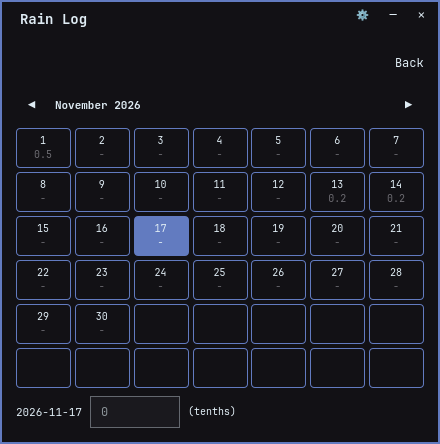
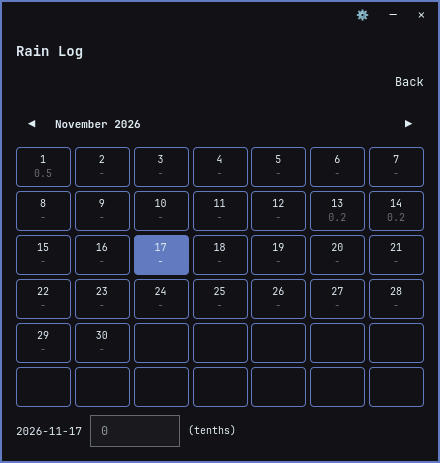
Move the title into the gap above the view action

diff --git a/shared/ui/RainLogContent.qml b/shared/ui/RainLogContent.qml
@@ -33,7 +33,7 @@ Item {
   // Height the card wants for the view currently showing. The desktop host
   // uses this only for its initial window size, so a resized window stays
   // resized.
-  readonly property int naturalHeight: headerRow.implicitHeight + Theme.space(12)
+  readonly property int naturalHeight: headerBlock.implicitHeight + Theme.space(12)
     + contentColumn.implicitHeight + bottomPad + contentPadding * 2 + 4
 
   focus: true
@@ -167,35 +167,54 @@ Item {
       anchors.left: parent.left
       anchors.right: parent.right
       anchors.top: parent.top
-      height: headerRow.height
+      height: headerBlock.height
       onPressed: root.moveRequested()
     }
 
-    RowLayout {
-      id: headerRow
+    Column {
+      id: headerBlock
       width: parent.width
-      spacing: Theme.space(8)
+      height: implicitHeight
+      spacing: Theme.space(6)
 
-      Item { Layout.fillWidth: true }
-
-      Button {
-        text: "Edit History"
-        visible: !root.historyMode && !root.settingsMode
-        // Sit the label flush with the content edge.
-        horizontalPadding: 0
-        Layout.alignment: Qt.AlignVCenter
-        onClicked: {
-          root.settingsMode = false
-          root.historyMode = true
-        }
+      // The card's title sits under the host's window controls, in the space
+      // above the view action on the right.
+      Text {
+        textFormat: Text.PlainText
+        text: "Rain Log"
+        color: Theme.foreground
+        font.family: Theme.font.family
+        font.pixelSize: Theme.font.title
+        font.bold: true
+        width: parent.width
       }
 
-      Button {
-        text: "Back"
-        visible: root.historyMode
-        horizontalPadding: 0
-        Layout.alignment: Qt.AlignVCenter
-        onClicked: root.historyMode = false
+      RowLayout {
+        id: headerRow
+        width: parent.width
+        spacing: Theme.space(8)
+
+        Item { Layout.fillWidth: true }
+
+        Button {
+          text: "Edit History"
+          visible: !root.historyMode && !root.settingsMode
+          // Sit the label flush with the content edge.
+          horizontalPadding: 0
+          Layout.alignment: Qt.AlignVCenter
+          onClicked: {
+            root.settingsMode = false
+            root.historyMode = true
+          }
+        }
+
+        Button {
+          text: "Back"
+          visible: root.historyMode
+          horizontalPadding: 0
+          Layout.alignment: Qt.AlignVCenter
+          onClicked: root.historyMode = false
+        }
       }
     }
 
@@ -203,7 +222,7 @@ Item {
       id: flick
       anchors.left: parent.left
       anchors.right: parent.right
-      anchors.top: headerRow.bottom
+      anchors.top: headerBlock.bottom
       anchors.topMargin: Theme.space(12)
       anchors.bottom: parent.bottom
       contentWidth: width

diff --git a/qml/Main.qml b/qml/Main.qml
@@ -2,9 +2,9 @@ import QtQuick
 import RainLog
 
 // Desktop host: a small frameless window whose body is the same card the
-// Omarchy plugin shows. The only host-specific chrome is a slim title strip
-// with the minimize/close pair above the card header, so the app keeps working
-// on GNOME, KDE, Cinnamon, and Windows, where a plugin cannot.
+// Omarchy plugin shows. The only host-specific chrome is a slim strip with
+// the settings and minimize/close controls above the card header, so the app
+// keeps working on GNOME, KDE, Cinnamon, and Windows, where a plugin cannot.
 Window {
   id: window
 
@@ -107,8 +107,9 @@ Window {
     border.width: 2
     border.color: Theme.popupsBorder
 
-    // A standard title strip: app name on the left, settings and window
-    // controls on the right. The empty part drags the window.
+    // Window controls sit above the card header, the way a regular title bar
+    // does. The empty part of the strip drags the window; the app name is in
+    // the card header below.
     Item {
       id: titleBar
       anchors.top: parent.top
@@ -117,35 +118,18 @@ Window {
       anchors.topMargin: 2
       anchors.leftMargin: 2
       anchors.rightMargin: 2
-      height: Math.max(32, titleControls.implicitHeight + Theme.space(10))
+      height: Math.max(26, titleControls.implicitHeight + Theme.space(4))
 
       MouseArea {
         anchors.fill: parent
         onPressed: window.startSystemMove()
       }
 
-      // The title sits a little lower than the window controls, with a little
-      // air above and to the left, so it reads as a title rather than a label
-      // pinned to the corner.
-      Text {
-        textFormat: Text.PlainText
-        text: "Rain Log"
-        color: Theme.foreground
-        font.family: Theme.font.family
-        font.pixelSize: Theme.font.title
-        font.bold: true
-        anchors.left: parent.left
-        anchors.leftMargin: Theme.space(18)
-        anchors.top: parent.top
-        anchors.topMargin: Theme.space(8)
-      }
-
       Row {
         id: titleControls
-        anchors.top: parent.top
-        anchors.topMargin: Theme.space(2)
         anchors.right: parent.right
         anchors.rightMargin: Theme.space(4)
+        anchors.verticalCenter: parent.verticalCenter
         spacing: Theme.space(2)
 
         Button {

diff --git a/README.md b/README.md
@@ -21,9 +21,10 @@ desktops that are not Hyprland, and on Windows.
 - Follow the current Omarchy theme (colors, typography, spacing, corner
   radius). On non-Omarchy systems it falls back to the bundled palette.
 
-The window is frameless and sized like the plugin card. A slim title strip carries
-the app name, the settings gear, and minimize/close; the rest of the strip can be
-dragged. Closing saves and quits — there is no tray icon and no background process.
+The window is frameless and sized like the plugin card. A slim strip carries the
+settings gear and minimize/close and drags the window; the app name sits just
+below it, with the view action on the right. Closing saves and quits — there is
+no tray icon and no background process.
 
 ## Data
 
